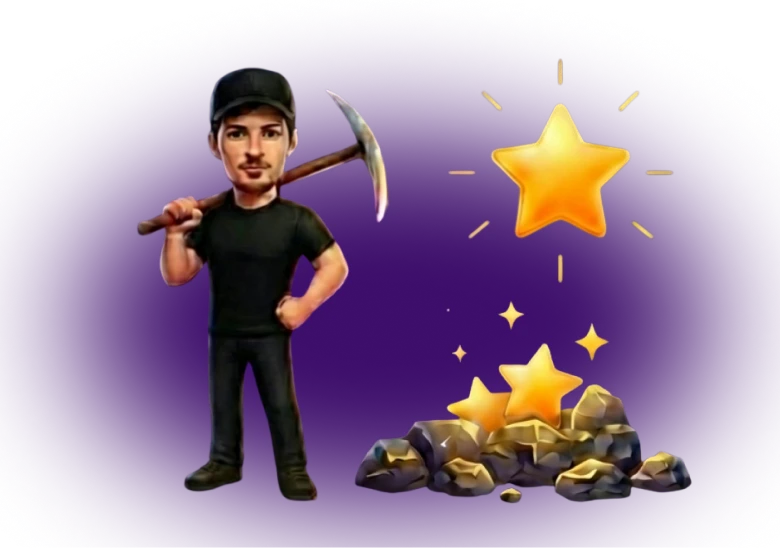
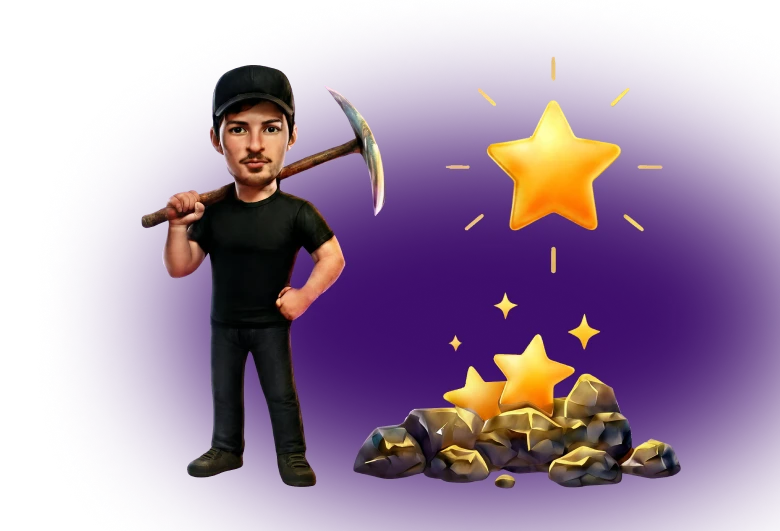
refactor: update Friends and Staking components for improved structure and styling; replace clsx usage and enhance image handling

diff --git a/src/components/Friends.jsx b/src/components/Friends.jsx
@@ -3,7 +3,6 @@ import {
   shareMessage,
   ShareMessageError,
 } from "@telegram-apps/sdk";
-import clsx from "clsx";
 import { useEffect, useState } from "react";
 import { useTranslation } from "react-i18next";
 import styles from "./Friends.module.scss";
@@ -54,14 +53,16 @@ export default function Friends({ friends, course }) {
   }, [friends]);
 
   return (
-    <section className={clsx(styles.friends, "container")}>
-      <FriendsHero handleInvite={handleInvite} userId={userId} />
-      <FriendsInfoCards />
-      <FriendsRefferalHistory
-        totalPrize={totalPrize}
-        course={course}
-        friends={friends}
-      />
-    </section>
+    <>
+      <section className={styles.friends}>
+        <FriendsHero handleInvite={handleInvite} userId={userId} />
+        <FriendsInfoCards />
+        <FriendsRefferalHistory
+          totalPrize={totalPrize}
+          course={course}
+          friends={friends}
+        />
+      </section>
+    </>
   );
 }

diff --git a/src/components/FriendsRefferalHistory/FriendsRefferalHistory.jsx b/src/components/FriendsRefferalHistory/FriendsRefferalHistory.jsx
@@ -2,6 +2,7 @@ import { starImg, starWebpImg } from "@/assets/images";
 import { useTranslation } from "react-i18next";
 import ImageWebp from "../layout/ImageWebp/ImageWebp";
 
+import clsx from "clsx";
 import styles from "./FriendsRefferalHistory.module.scss";
 
 const FriendsRefferalHistory = (totalPrize, course, friends) => {
@@ -18,7 +19,7 @@ const FriendsRefferalHistory = (totalPrize, course, friends) => {
     return firstName + " " + lastName;
   };
   return (
-    <div className={styles.friendsRefferalHistory}>
+    <div className={clsx(styles.friendsRefferalHistory, "container")}>
       <div className={styles.friendsRefferalHistory__header}>
         <div className={styles.friendsRefferalHistory__info}>
           <span className={styles.friendsRefferalHistory__infoText}>

diff --git a/src/components/FriendsHero/FriendsHero.jsx b/src/components/FriendsHero/FriendsHero.jsx
@@ -7,6 +7,7 @@ import {
 import { useTranslation } from "react-i18next";
 import ImageWebp from "../layout/ImageWebp/ImageWebp";
 
+import clsx from "clsx";
 import { useNotification } from "../useNotification";
 import styles from "./FriendsHero.module.scss";
 
@@ -26,7 +27,10 @@ const FriendsHero = ({ handleInvite, userId }) => {
         alt="referal"
         className={styles.friendsHero__img}
       />
-      <button onClick={handleInvite} className={styles.friendsHero__shareBtn}>
+      <button
+        onClick={handleInvite}
+        className={clsx(styles.friendsHero__shareBtn, "container")}
+      >
         <span className={styles.friendsHero__shareBtnText}>
           {t("friends.invite")}
         </span>

diff --git a/src/components/Staking.jsx b/src/components/Staking.jsx
@@ -243,14 +243,14 @@ export default function Staking({
 
   return (
     <>
+      <ImageWebp
+        src={miningReadyMinerImg}
+        srcSet={miningReadyMinerWebpImg}
+        alt="miner"
+        className={styles.staking__img}
+      />
       <section className={clsx(styles.staking, "container")}>
         <div className={styles.staking}>
-          <ImageWebp
-            src={miningReadyMinerImg}
-            srcSet={miningReadyMinerWebpImg}
-            alt="miner"
-            className={styles.staking__img}
-          />
           <div className={styles.staking__collectBar}>
             <div className={styles.staking__collectText}>
               <span> {(accelerateBalance * course).toFixed(8)}</span>
